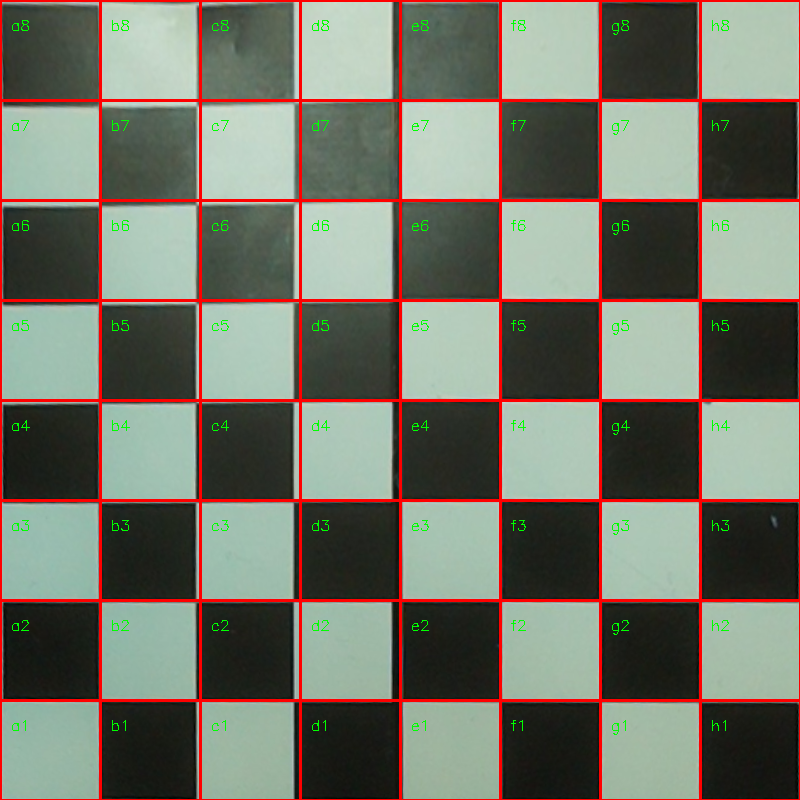
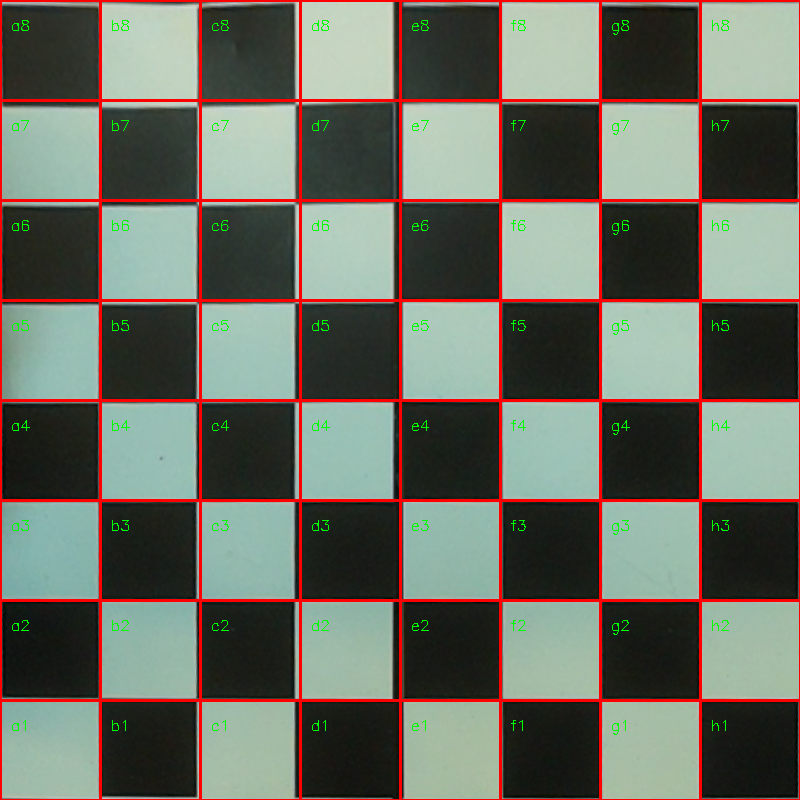
2.13lab

diff --git a/Identify/piece_recog.py b/Identify/piece_recog.py
@@ -1,0 +1,254 @@
+import os
+import cv2
+import numpy as np
+
+
+NORM_SIZE = 96
+MIN_FG_RATIO = 0.03
+CANNY1, CANNY2 = 60, 160
+MATCH_METHOD = cv2.TM_CCOEFF_NORMED
+TOPK = 3
+
+
+
+def script_dir():
+    """Return directory of this script"""
+    return os.path.dirname(os.path.abspath(__file__))
+
+
+def center_crop(img, pad_ratio=0.12):
+    """Safe center crop"""
+    h, w = img.shape[:2]
+    pad = int(min(h, w) * pad_ratio)
+    pad = max(0, min(pad, (min(h, w) // 2) - 1))
+
+    if pad <= 0:
+        return img.copy()
+
+    return img[pad:h - pad, pad:w - pad].copy()
+
+
+def segment_foreground(square_bgr):
+    """
+    Input: square BGR image
+    Output: mask (0/255), foreground ratio
+    """
+    roi = center_crop(square_bgr, 0.12)
+
+    gray = cv2.cvtColor(roi, cv2.COLOR_BGR2GRAY)
+    gray = cv2.GaussianBlur(gray, (5, 5), 0)
+
+    th = cv2.adaptiveThreshold(
+        gray,
+        255,
+        cv2.ADAPTIVE_THRESH_GAUSSIAN_C,
+        cv2.THRESH_BINARY_INV,
+        31,
+        5
+    )
+
+    kernel = np.ones((3, 3), np.uint8)
+
+    th = cv2.morphologyEx(th, cv2.MORPH_OPEN, kernel, iterations=1)
+    th = cv2.morphologyEx(th, cv2.MORPH_CLOSE, kernel, iterations=2)
+
+    fg_ratio = float(np.count_nonzero(th)) / th.size
+
+    return th, fg_ratio
+
+
+def shape_descriptor(square_bgr):
+    """
+    square -> mask -> edges -> resize
+    Return: descriptor, fg_ratio
+    """
+    mask, fg_ratio = segment_foreground(square_bgr)
+
+    if fg_ratio < MIN_FG_RATIO:
+        return None, fg_ratio
+
+    edges = cv2.Canny(mask, CANNY1, CANNY2)
+
+    edges = cv2.dilate(
+        edges,
+        np.ones((3, 3), np.uint8),
+        iterations=1
+    )
+
+    desc = cv2.resize(
+        edges,
+        (NORM_SIZE, NORM_SIZE),
+        interpolation=cv2.INTER_AREA
+    )
+
+    return desc, fg_ratio
+
+
+def load_templates(template_root="/templates"):
+    """
+    Load template library
+    Return: dict[label] = [desc1, desc2, ...]
+    """
+    root = os.path.join(script_dir(), template_root)
+
+    if not os.path.isdir(root):
+        raise FileNotFoundError(f"Template directory not found: {root}")
+
+    db = {}
+
+    for label in sorted(os.listdir(root)):
+
+        folder = os.path.join(root, label)
+
+        if not os.path.isdir(folder):
+            continue
+
+        descs = []
+
+        for fn in sorted(os.listdir(folder)):
+
+            if not fn.lower().endswith((".png", ".jpg", ".jpeg", ".bmp", ".webp")):
+                continue
+
+            path = os.path.join(folder, fn)
+
+            img = cv2.imread(path)
+
+            if img is None:
+                print("[WARN] Cannot read:", path)
+                continue
+
+            desc, _ = shape_descriptor(img)
+
+            if desc is not None:
+                descs.append(desc)
+
+        if descs:
+            db[label] = descs
+
+    if not db:
+        raise RuntimeError("No valid templates loaded")
+
+    return db
+
+
+def match_score(query_desc, template_desc):
+    """Template matching score"""
+    res = cv2.matchTemplate(query_desc, template_desc, MATCH_METHOD)
+    return float(res[0, 0])
+
+
+class PieceRecognizer:
+
+    def __init__(self, template_root="templates"):
+        self.db = load_templates(template_root)
+
+    def classify_square(self, square_bgr):
+        """
+        Input: square BGR image
+        Output: (label, confidence, fg_ratio)
+        """
+        if square_bgr is None:
+            raise ValueError("Input image is None")
+
+        qdesc, fg_ratio = shape_descriptor(square_bgr)
+
+        if qdesc is None:
+            return None, 0.0, fg_ratio
+
+        best_label = None
+        best_score = -1e9
+
+        for label, tdescs in self.db.items():
+
+            scores = []
+
+            for td in tdescs:
+
+                if td.shape != qdesc.shape:
+                    td = cv2.resize(
+                        td,
+                        (qdesc.shape[1], qdesc.shape[0]),
+                        interpolation=cv2.INTER_AREA
+                    )
+
+                scores.append(match_score(qdesc, td))
+
+            scores.sort(reverse=True)
+
+            score = float(np.mean(scores[:min(TOPK, len(scores))]))
+
+            if score > best_score:
+                best_score = score
+                best_label = label
+
+        return best_label, best_score, fg_ratio
+
+
+def read_test_image(path):
+    """
+    Read image using script directory if relative path
+    """
+    if not os.path.isabs(path):
+        path = os.path.join(script_dir(), path)
+
+    img = cv2.imread(path)
+
+    if img is None:
+        raise FileNotFoundError(f"Cannot read image: {path}")
+
+    return img
+
+
+# ---------- Added: saving helper ----------
+def save_one_square(square_bgr, out_name="one_square.png"):
+    """Save one square image into script directory"""
+    out_path = os.path.join(script_dir(), out_name)
+    ok = cv2.imwrite(out_path, square_bgr)
+    if not ok:
+        raise RuntimeError(f"Failed to write image: {out_path}")
+    print("Saved:", out_path)
+    return out_path
+
+
+# (Optional) If you do not already have split_board elsewhere, you can use this:
+def split_board(warped_bgr):
+    """Split a top-down board image into an 8x8 list of square BGR images."""
+    h, w = warped_bgr.shape[:2]
+    step_y = h // 8
+    step_x = w // 8
+    squares = []
+    for r in range(8):
+        row = []
+        for c in range(8):
+            y1, y2 = r * step_y, (r + 1) * step_y
+            x1, x2 = c * step_x, (c + 1) * step_x
+            row.append(warped_bgr[y1:y2, x1:x2].copy())
+        squares.append(row)
+    return squares
+
+
+# ================== Main Test ==================
+
+if __name__ == "__main__":
+
+    print("Script dir:", script_dir())
+    print("Working dir:", os.getcwd())
+
+    recognizer = PieceRecognizer("templates")
+
+    # ---- Option A: If you already have squares from your pipeline, do this there ----
+    # squares = split_board(warped)
+    # save_one_square(squares[0][0], "one_square.png")
+
+    # ---- Option B: If you only want to test this file, load a test image and also save it ----
+    test_img = read_test_image("one_square.png")
+
+    # Save a copy (useful to confirm paths)
+    save_one_square(test_img, "one_square_copy.png")
+
+    label, conf, fg = recognizer.classify_square(test_img)
+
+    print("Result:", label)
+    print("Confidence:", conf)
+    print("Foreground ratio:", fg)

diff --git a/Identify/prepare_base.py b/Identify/prepare_base.py
@@ -17,7 +17,7 @@ def generate_base():
 
     avg_img = np.mean(imgs, axis=0).astype(np.uint8)
 
-    src_pts = np.float32([[330, 259], [849, 227], [946, 720], [264, 764]])
+    src_pts = np.float32([[349, 296], [878, 277], [966, 807], [262, 825]])
     dst_pts = np.float32([[0, 0], [800, 0], [800, 800], [0, 800]])
 
     M = cv2.getPerspectiveTransform(src_pts, dst_pts)
@@ -29,3 +29,5 @@ def generate_base():
 
 if __name__ == "__main__":
     generate_base()
+
+

diff --git a/Identify/verify_warp.py b/Identify/verify_warp.py
@@ -83,4 +83,4 @@ def verify_perspective(image_path):
 
 if __name__ == "__main__":
     # Test with the sample image you provided
-    verify_perspective("chess_data/Empty Board_1.jpg")
+    verify_perspective("chess_data/Empty_Board_1.jpg")
